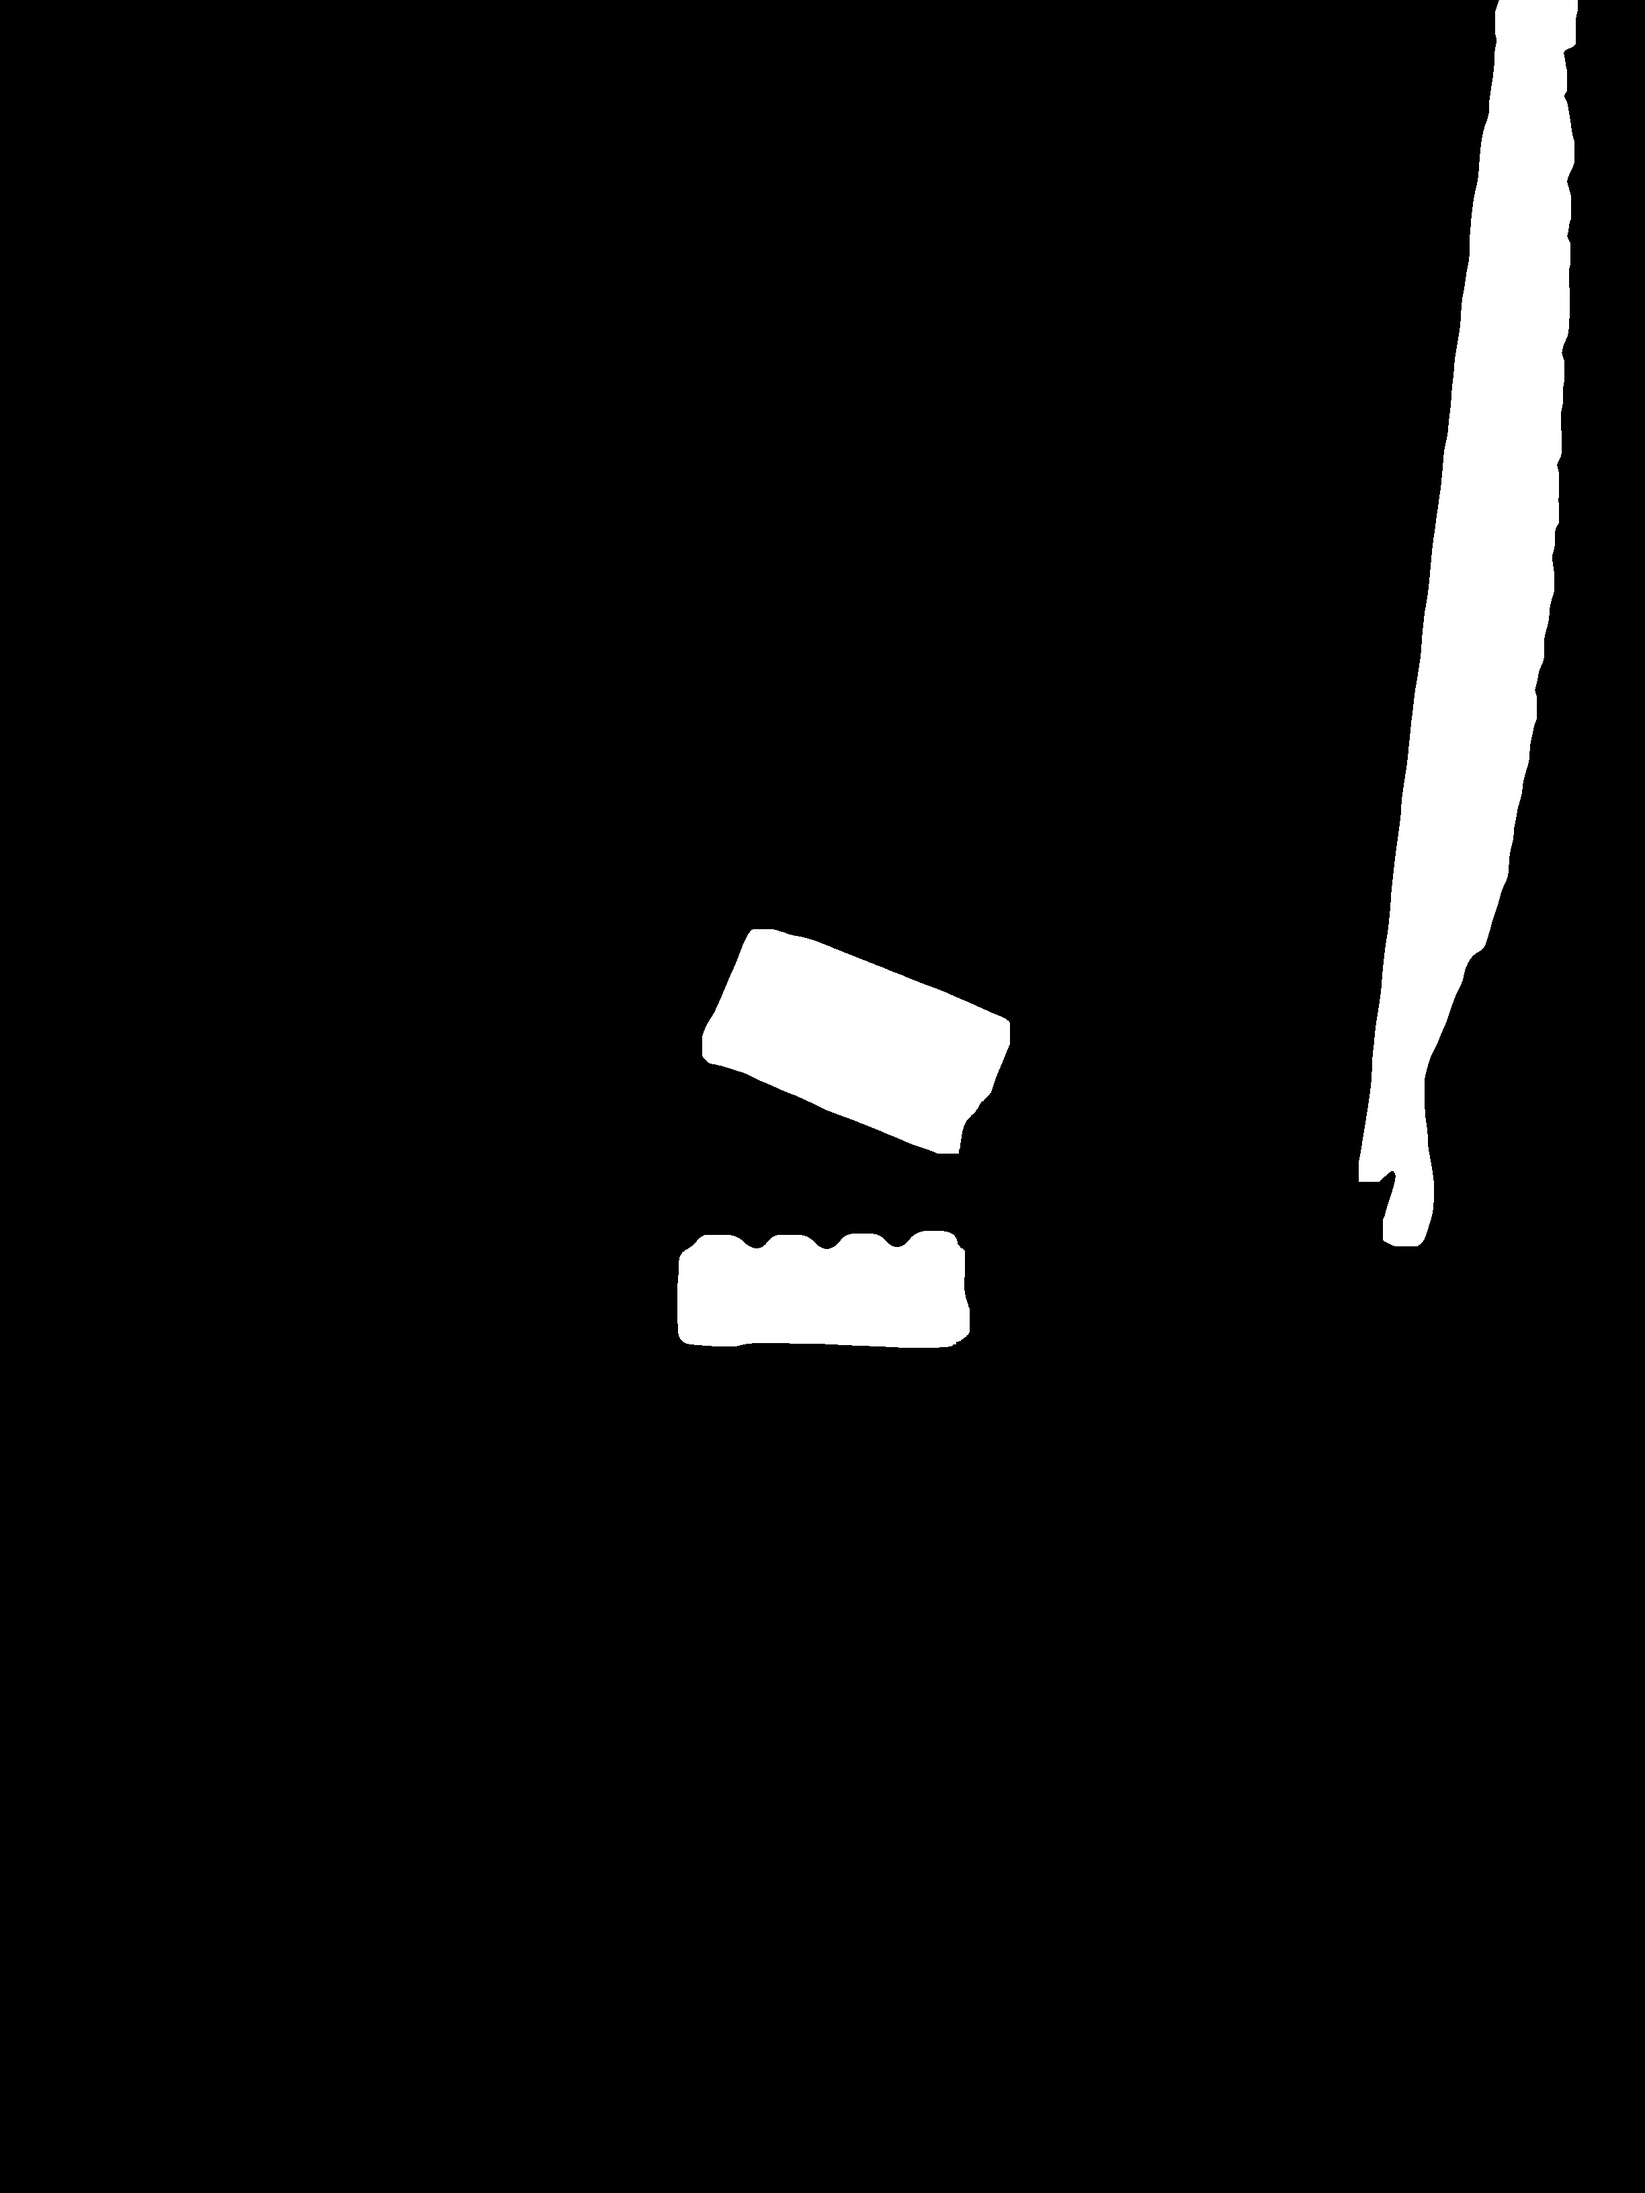
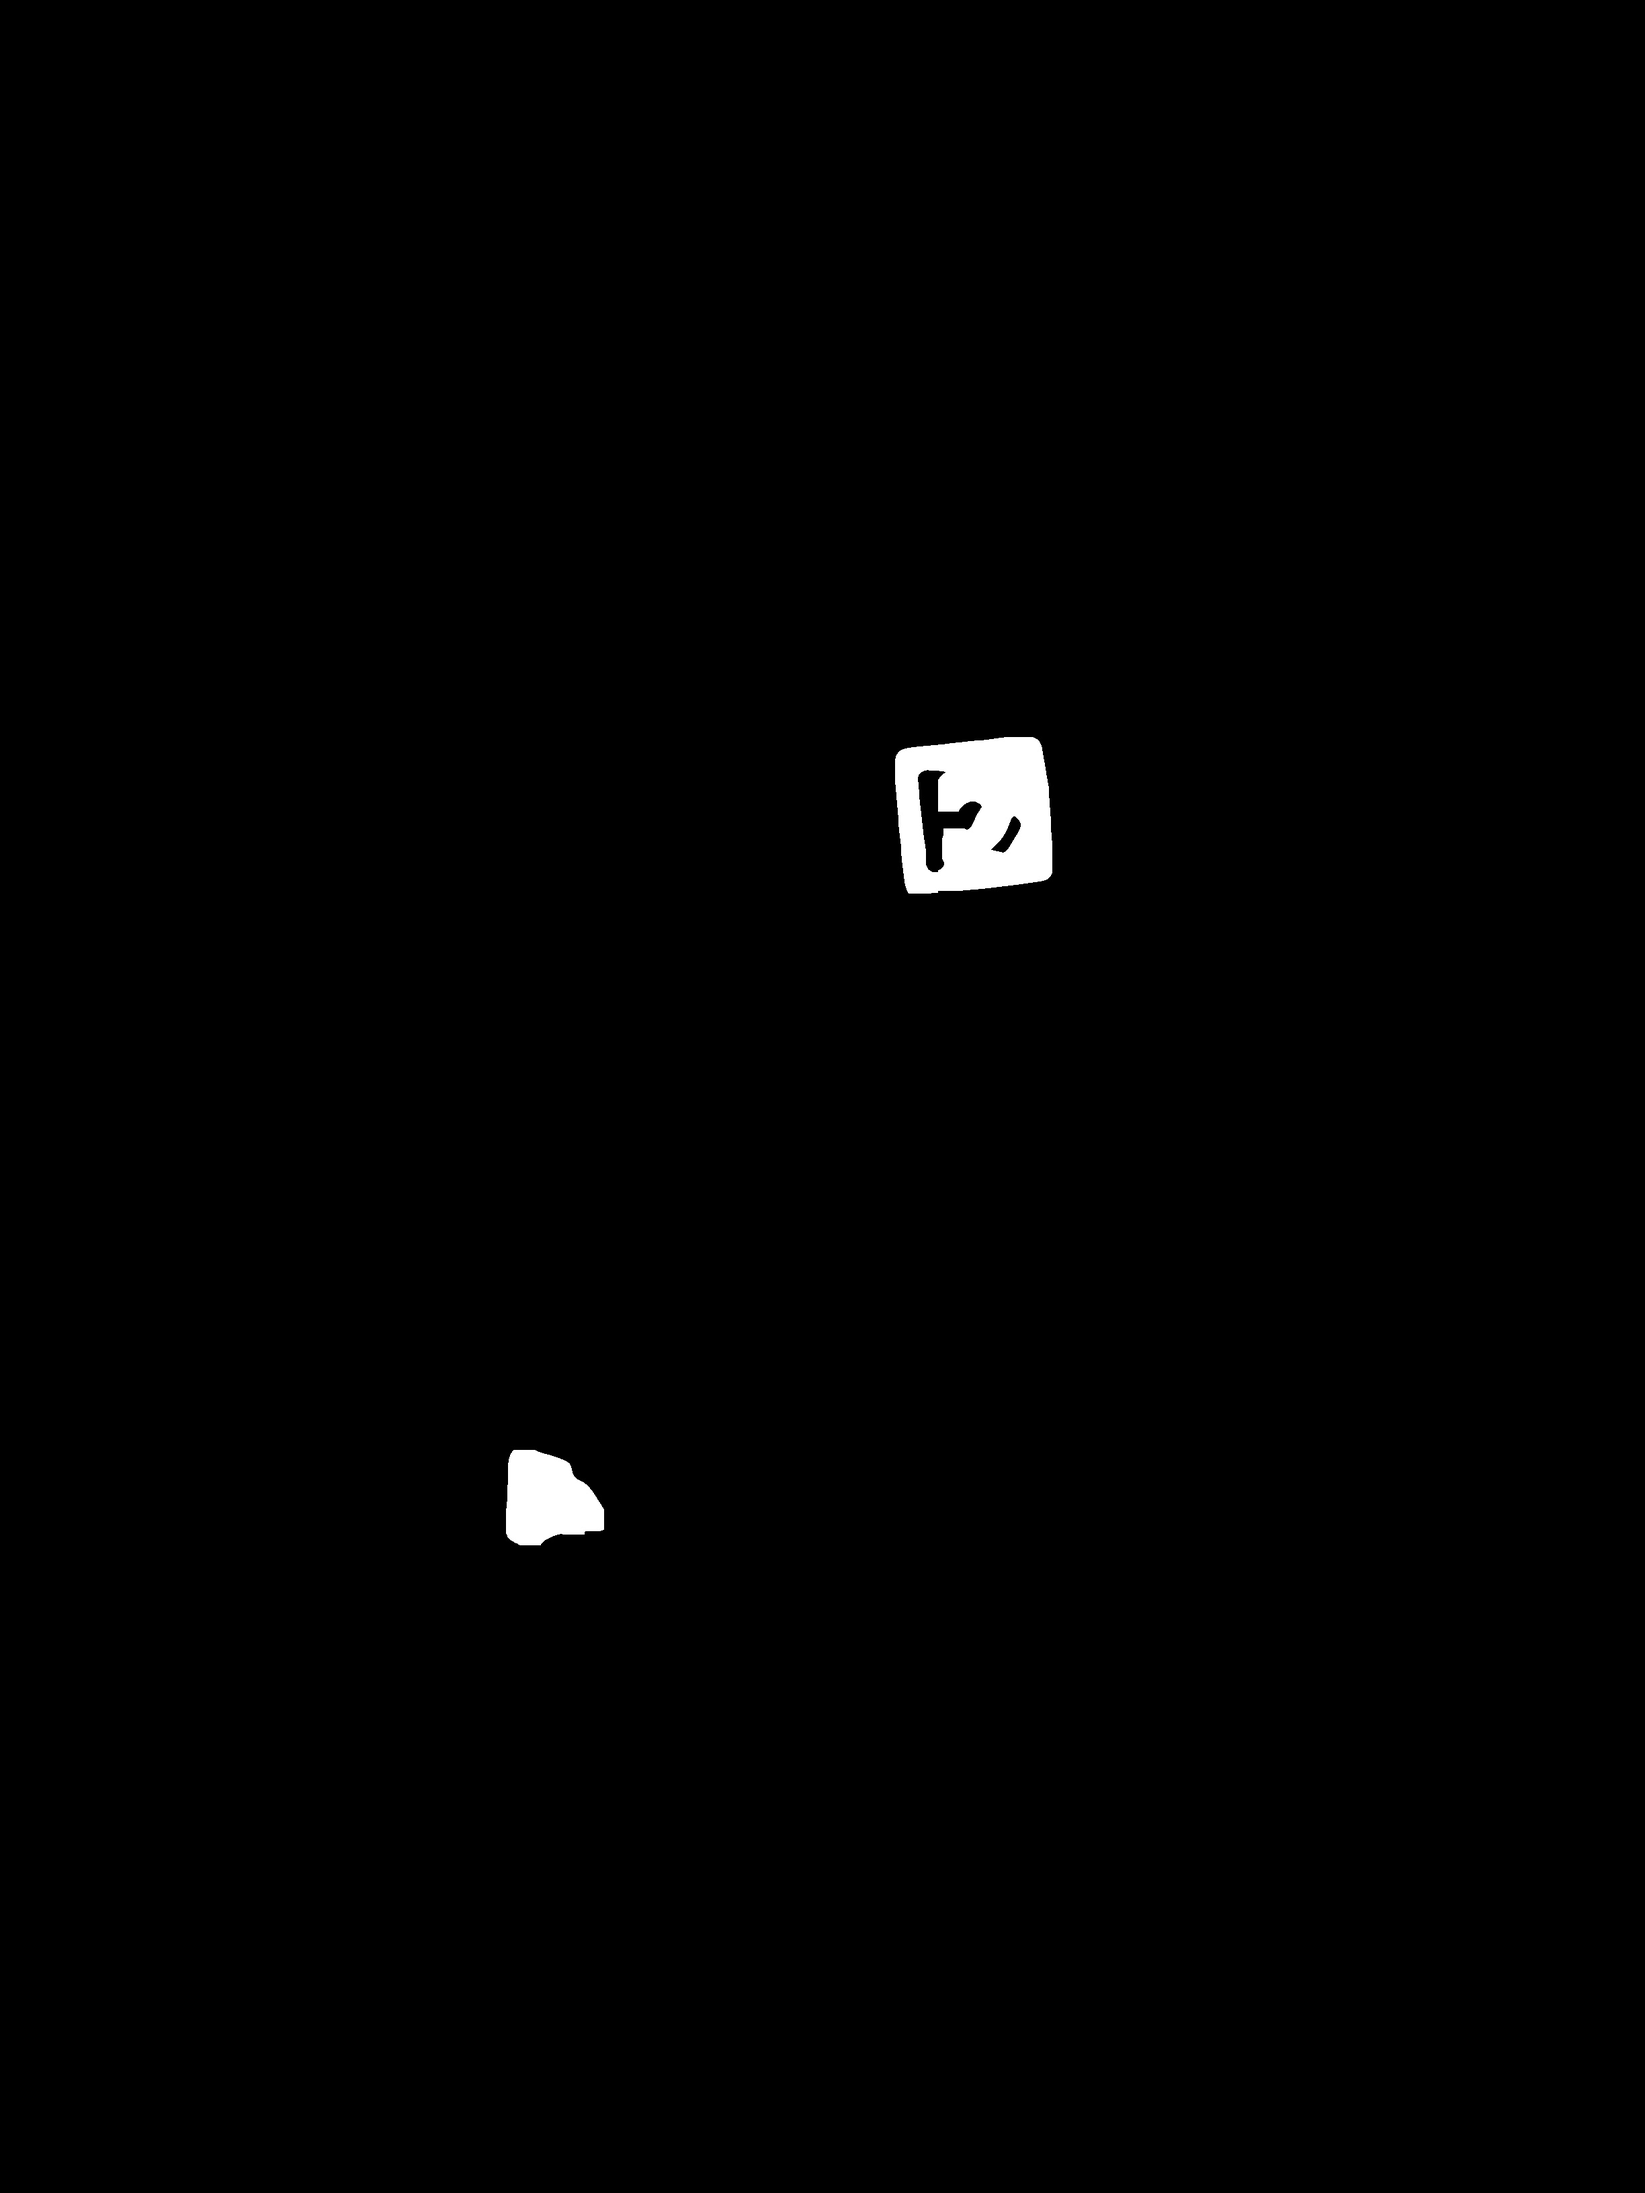
Added some preliminary parameters for color segmentation

diff --git a/color_seg/main.cpp b/color_seg/main.cpp
@@ -26,6 +26,8 @@ void process_img(cv::Mat& src, int low[], int high[], int k_erosion=5, int k_dil
 int main(int argc, char** argv)
 {
 
+    std::cout << "\nNote that the reflections of the bricks off the walls \
+        of the container are also counted!!" << std::endl;
     std::vector<cv::String> fn;
     cv::glob("../lego_images/*.jpg", fn, false);
 
@@ -35,12 +37,30 @@ int main(int argc, char** argv)
         images.push_back(cv::imread(fn[i], cv::IMREAD_COLOR));
 
 
-    int low[] = {160, 120, 120};    
-    int high[] = {180, 255, 255};
+    // Red params
+    // int low[] = {160, 120, 120};    
+    // int high[] = {180, 255, 255};
+    // int k_erode = 5;
+    // int k_dilate = 11;
+    // int erosion_iterations = 5;
+    // int dilation_iterations = 2;
+
+    // Yellow params
+    // int low[] = {10, 70, 150};    
+    // int high[] = {30, 255, 255};
+    // int k_erode = 5;
+    // int k_dilate = 11;
+    // int erosion_iterations = 5;
+    // int dilation_iterations = 2;
+
+    // Blue params
+    int low[] = {100, 120, 120};    
+    int high[] = {140, 255, 255};
     int k_erode = 5;
     int k_dilate = 11;
     int erosion_iterations = 5;
     int dilation_iterations = 2;
+
     for (size_t i=0; i< images.size(); i++)
     {
         if (images[i].empty())
